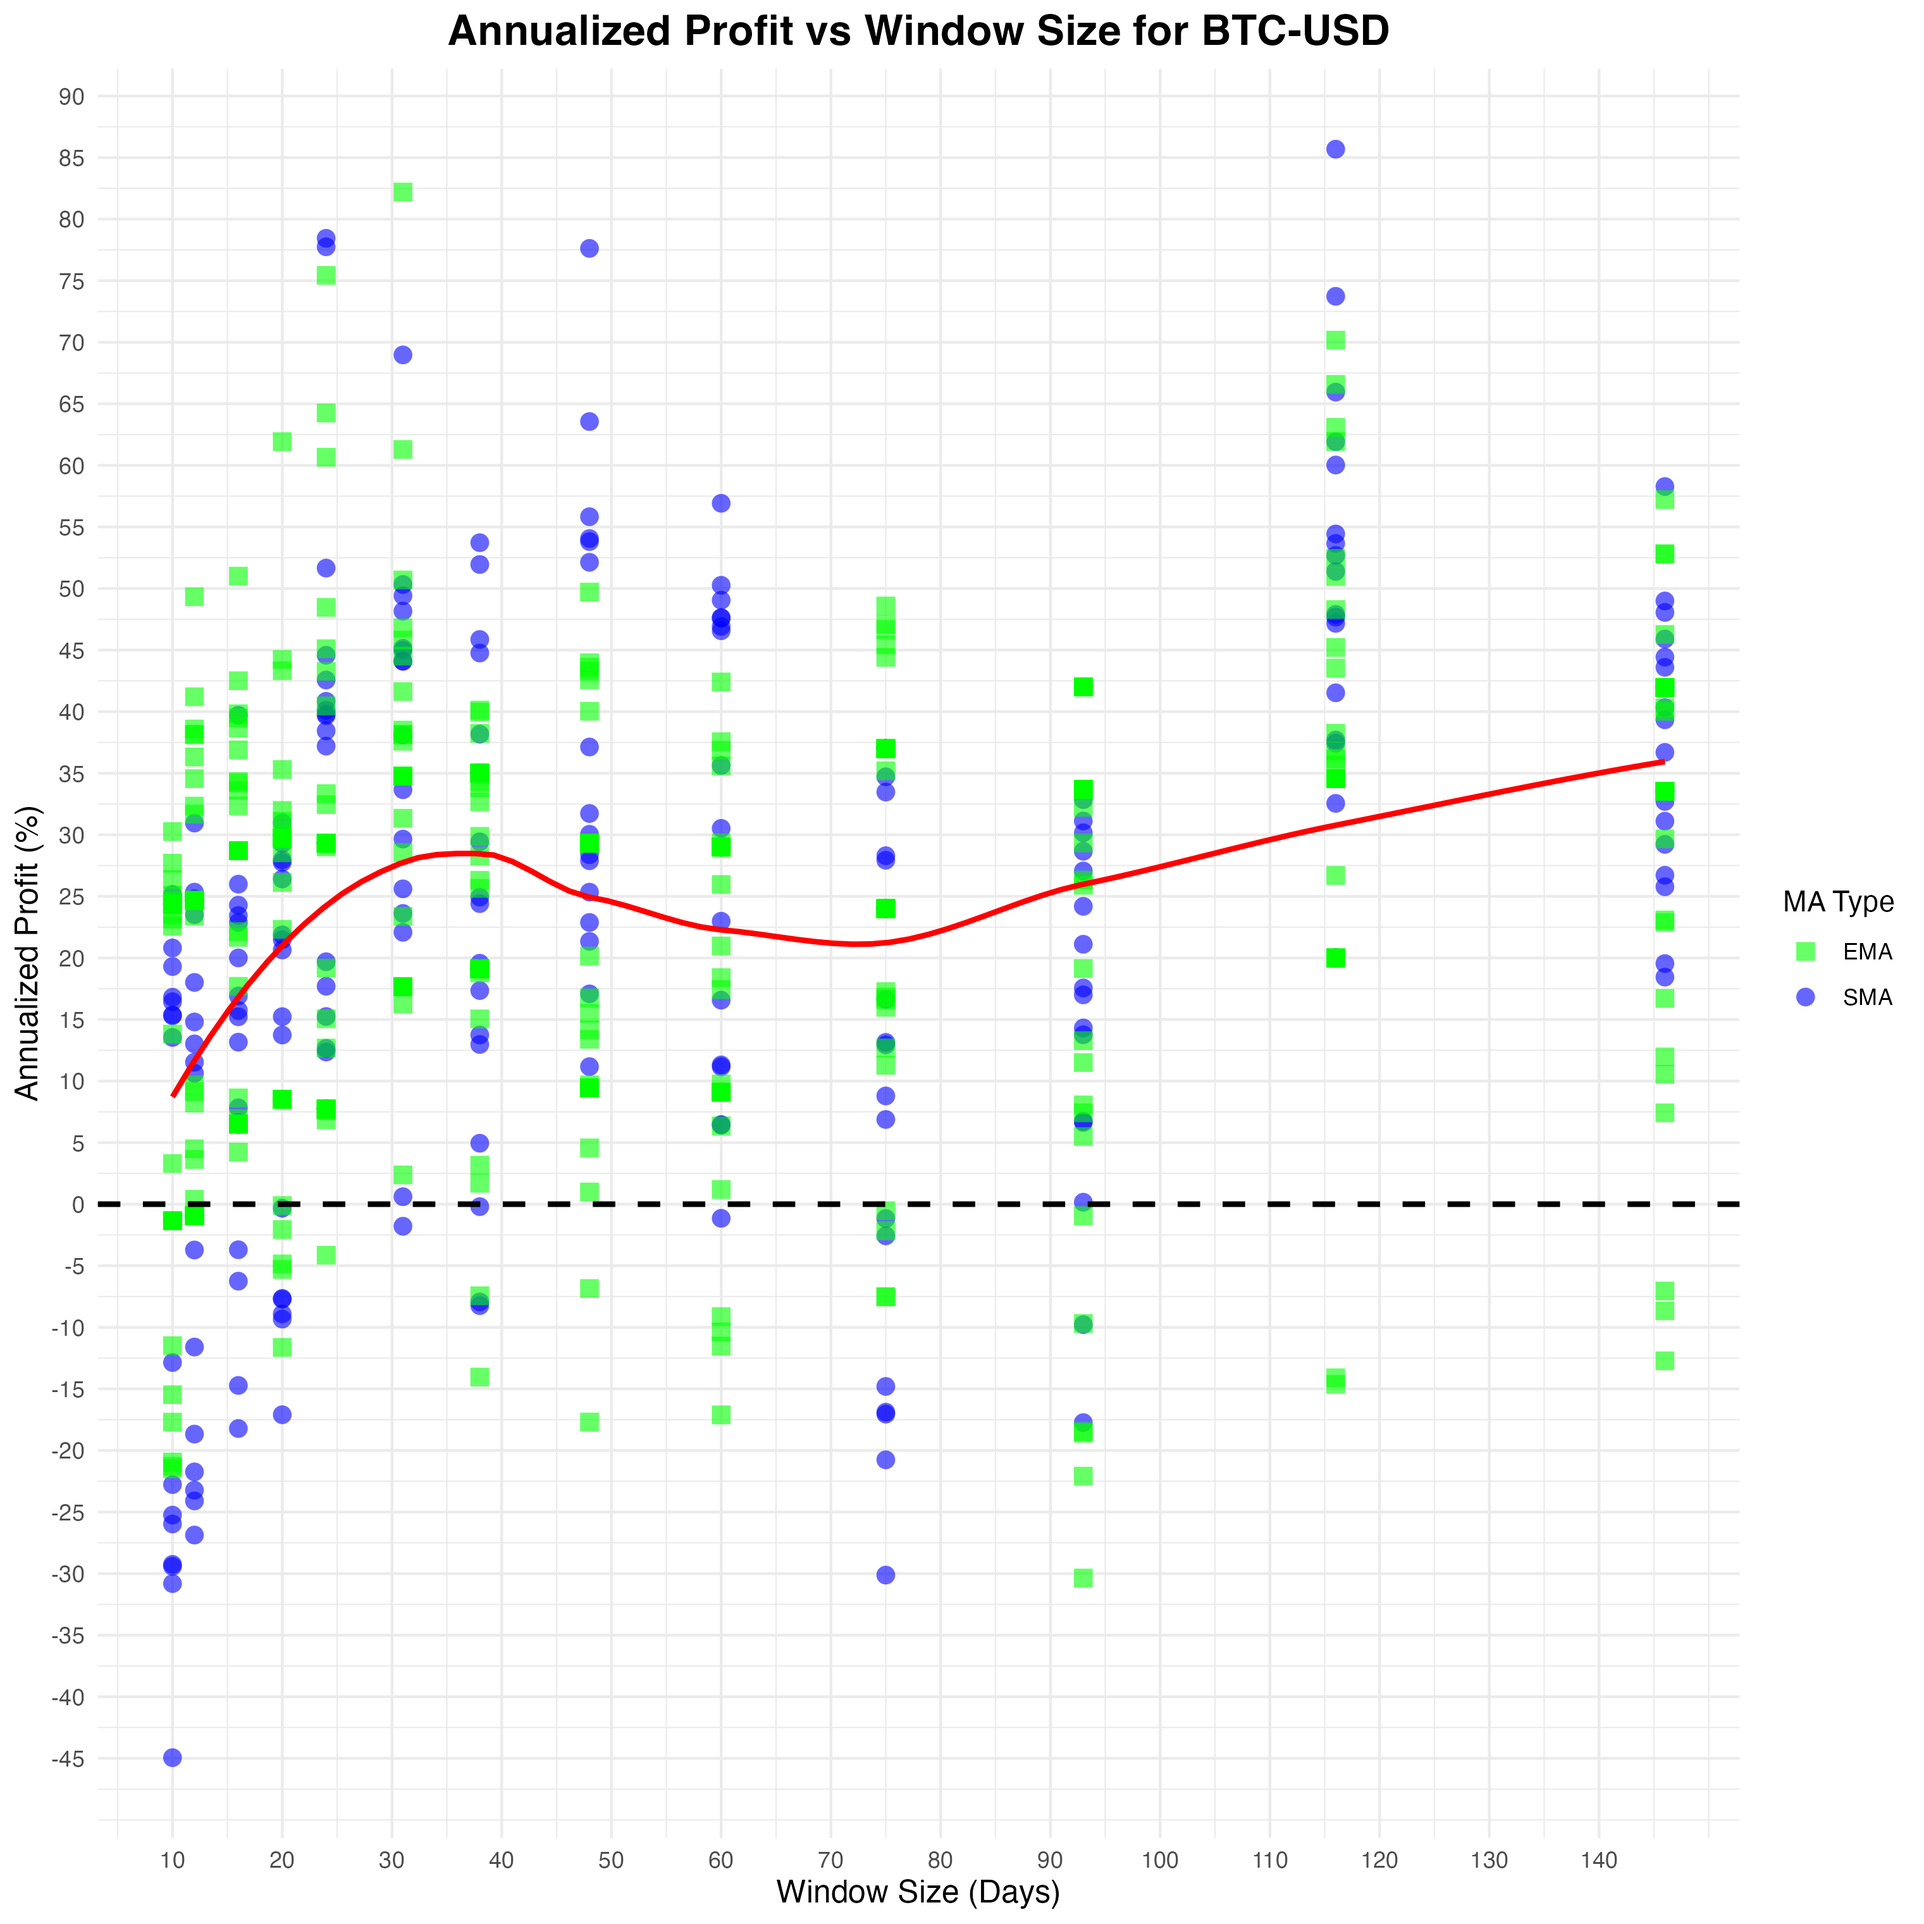
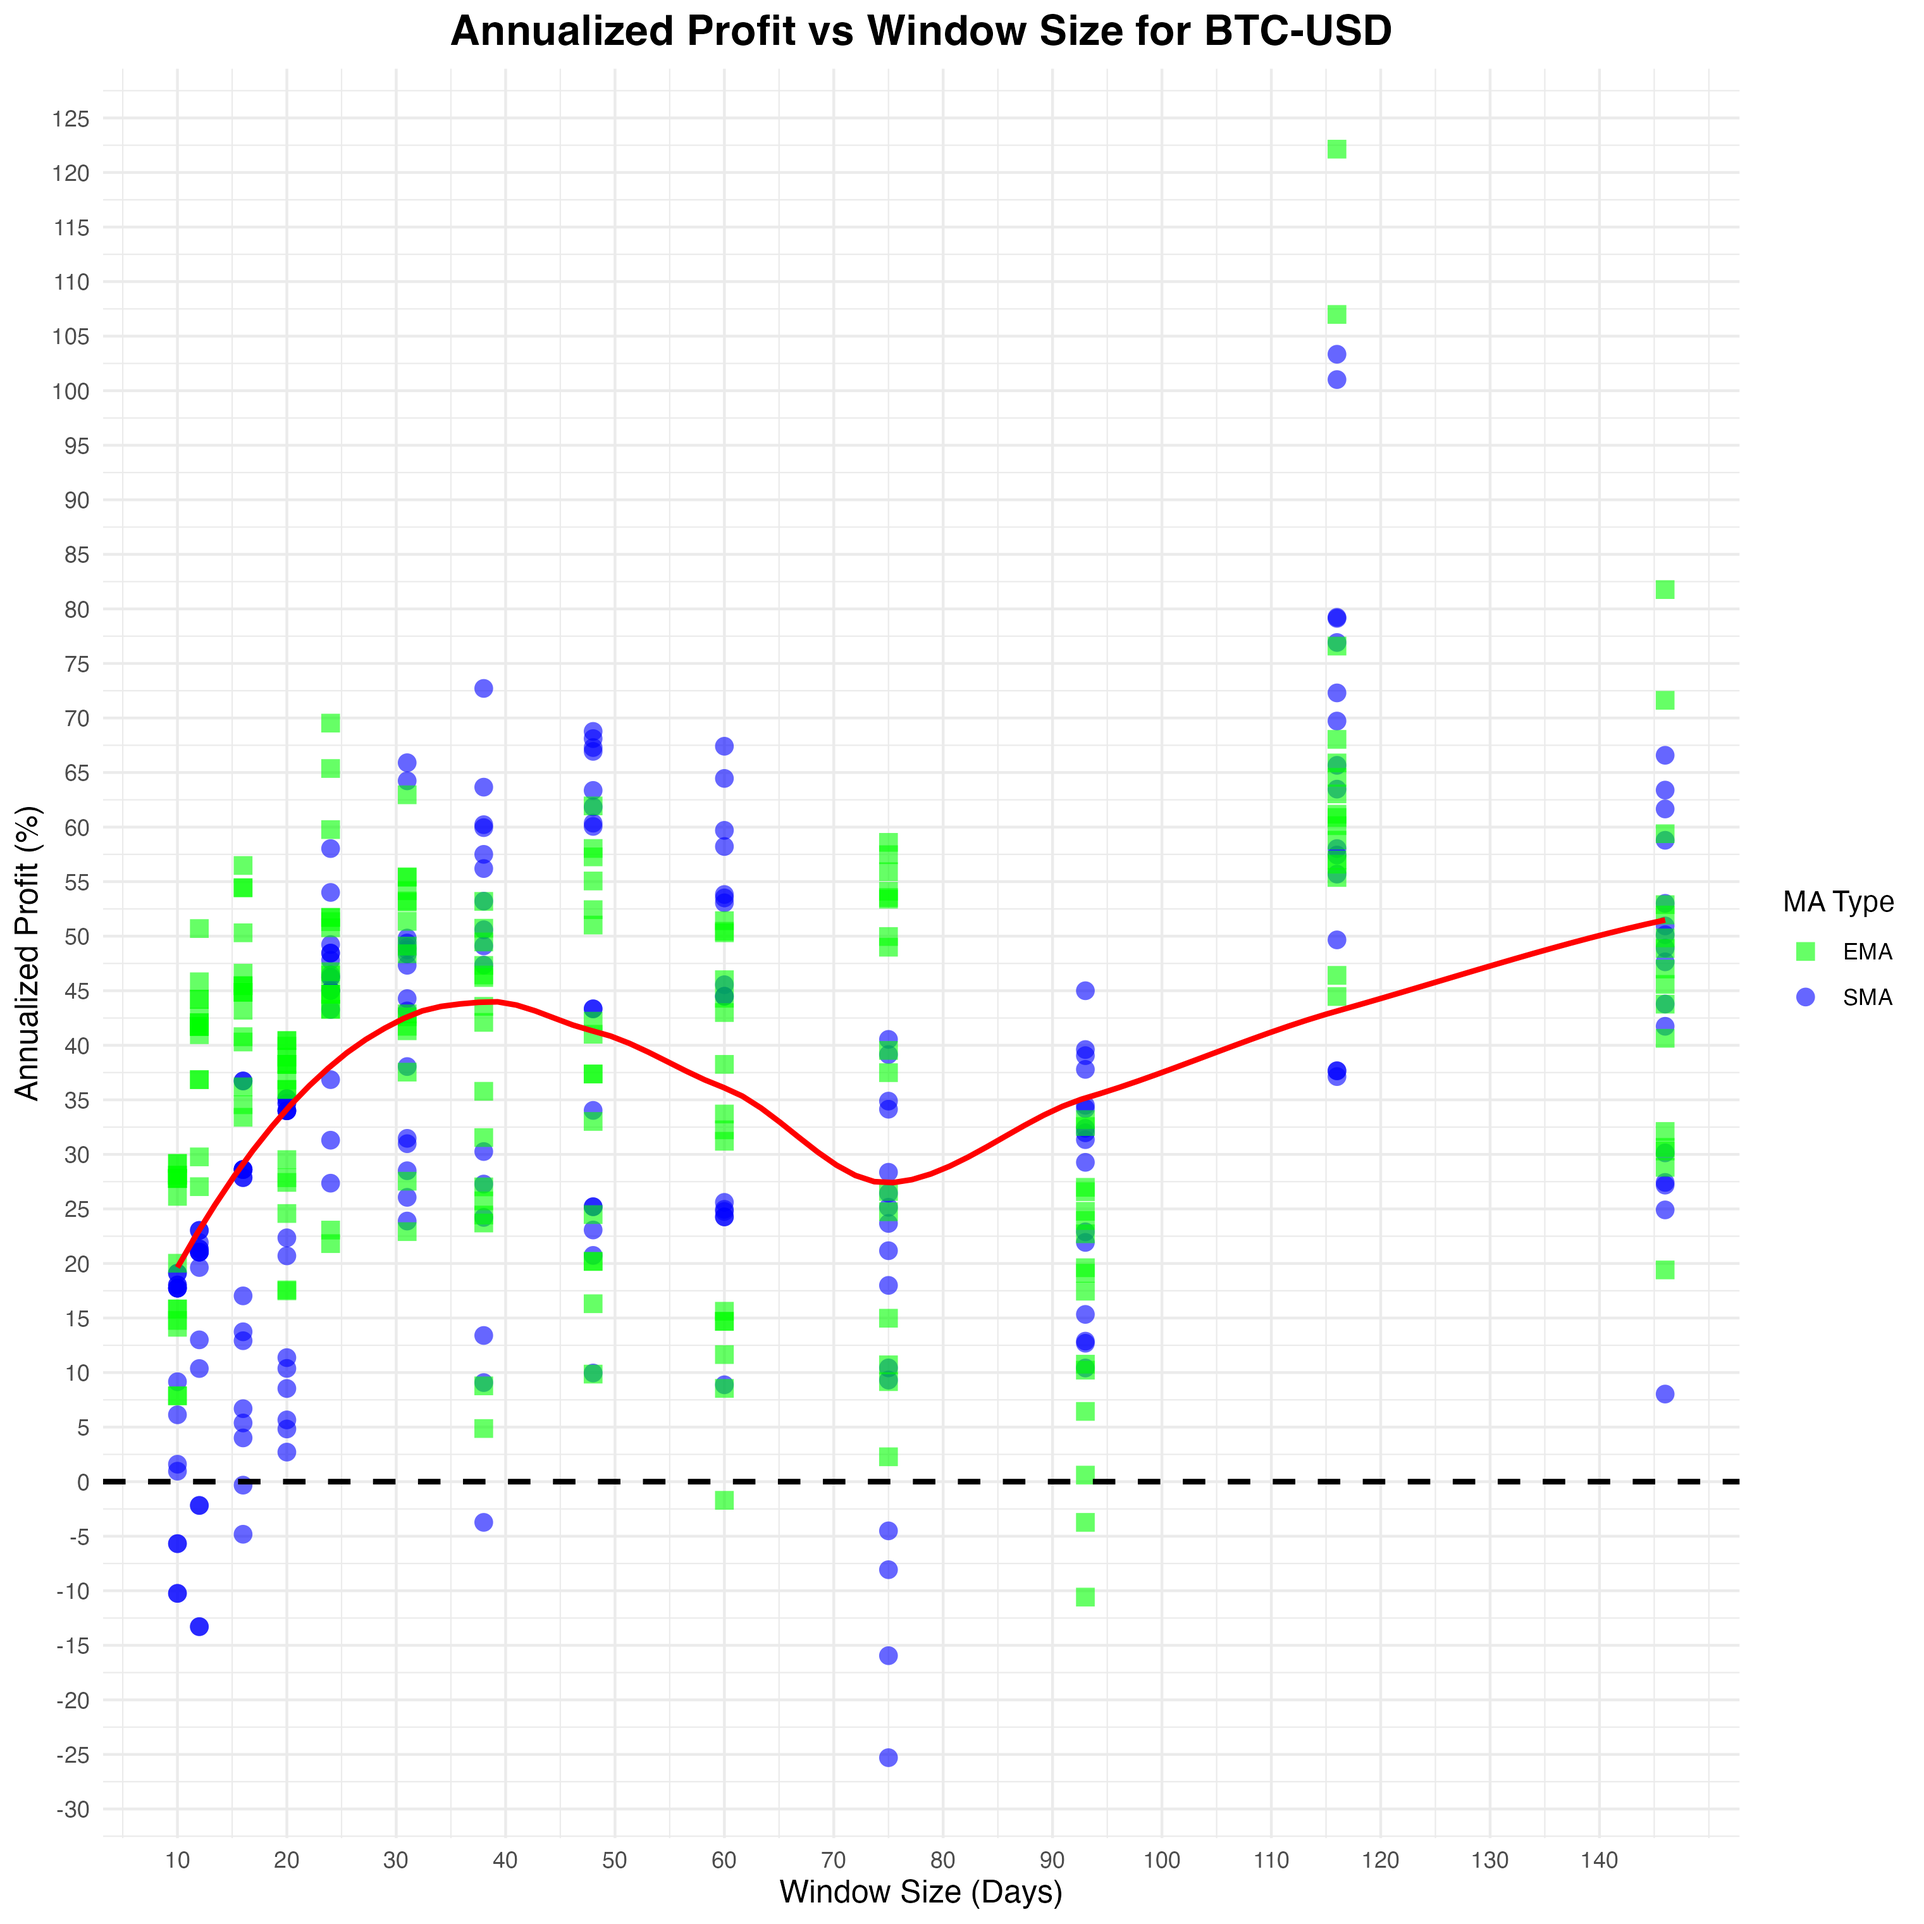
Update of backtesting plot; minor updates in Rcpp implmentations.

diff --git a/backtesting_trading_strategies/speedup/apply_risk_management_cpp.cpp b/backtesting_trading_strategies/speedup/apply_risk_management_cpp.cpp
@@ -89,10 +89,10 @@ DataFrame apply_risk_management_cpp(
 
       if (position[i] == 1) {
         stopLossValue = Close[i] - (max_risk * eqlActiveValue2 / nopActive[i]);
-        profitTakeValue = Close[i] + (reward_ratio * max_risk * eqlActiveValue2 / nopActive[i]);
+        profitTakeValue = std::max(0.0, Close[i] + (reward_ratio * max_risk * eqlActiveValue2 / nopActive[i]));
       } else if (position[i] == -1) {
         stopLossValue = Close[i] + (max_risk * eqlActiveValue2 / nopActive[i]);
-        profitTakeValue = Close[i] - (reward_ratio * max_risk * eqlActiveValue2 / nopActive[i]);
+        profitTakeValue = std::max(0.0, Close[i] - (reward_ratio * max_risk * eqlActiveValue2 / nopActive[i]));
       } else {
         stopLossValue = profitTakeValue = NA_REAL;
       }

diff --git a/backtesting_trading_strategies/speedup/estimate_trading_profile_cpp.cpp b/backtesting_trading_strategies/speedup/estimate_trading_profile_cpp.cpp
@@ -283,7 +283,7 @@ int winning_trades = 0;
 for (const auto& trade : trade_pnl_map) {
     if (trade.second > 0) winning_trades++;
 }
-double PercentageOfWinningDays = std::round((100.0 * winning_trades / trade_pnl_map.size()) * 100) / 100; // Ensure two decimal precision
+double PercentageOfWinningDays = std::round((100.0 * winning_trades / trade_pnl_map.size()));
 
 // Create a map to store the sum of pnl for each trade_id_m2
 std::map<int, double> pnl_map;

diff --git a/README.md b/README.md
@@ -183,18 +183,18 @@ The engine is flexible, and the same approach can be applied to any strategy and
 
 ### Parameters Used in the Backtest:
 - **Symbols**: BTC-USD  
-- **Window Sizes**: 10, 12, 16, 20, 24, 31, 38, 48, 60, 75, 93, 116, 146, 182  
+- **Window Sizes**: 10, 12, 16, 20, 24, 31, 38, 48, 60, 75, 93, 116, 146
 - **Moving Average Types**: SMA, EMA  
 - **Data Type**: in_sample  
 - **Split**: FALSE (whether the data is split into sub-periods for a more granular view under different market regimes)  
 - **Cut Date**: 2024-01-01  
 - **From Date**: 2018-01-01  
-- **To Date**: 2025-02-16  
+- **To Date**: 2025-03-01  
 - **Slicing Years**: 1 (if split is TRUE, defines the slicing granularity)  
-- **Risk Management**: Applied  
+- **Risk Management**: TRUE (applied)  
 - **Flat After Event**: TRUE, FALSE (stay flat after a stop loss or profit take event until a new signal emerges OR re-enter the position)  
-- **Max Risks**: 0.1, 0.2, 0.3  
-- **Reward Ratios**: 2, 3  
+- **Max Risks**: 0.1, 0.2
+- **Reward Ratios**: 3, 7  
 - **Leverages**: 1, 2  
 
 ![Backtest results SMA1 strategy using different strategy parameters for BTC-USD](temp/sma1_res_sma1_backtest.png)
